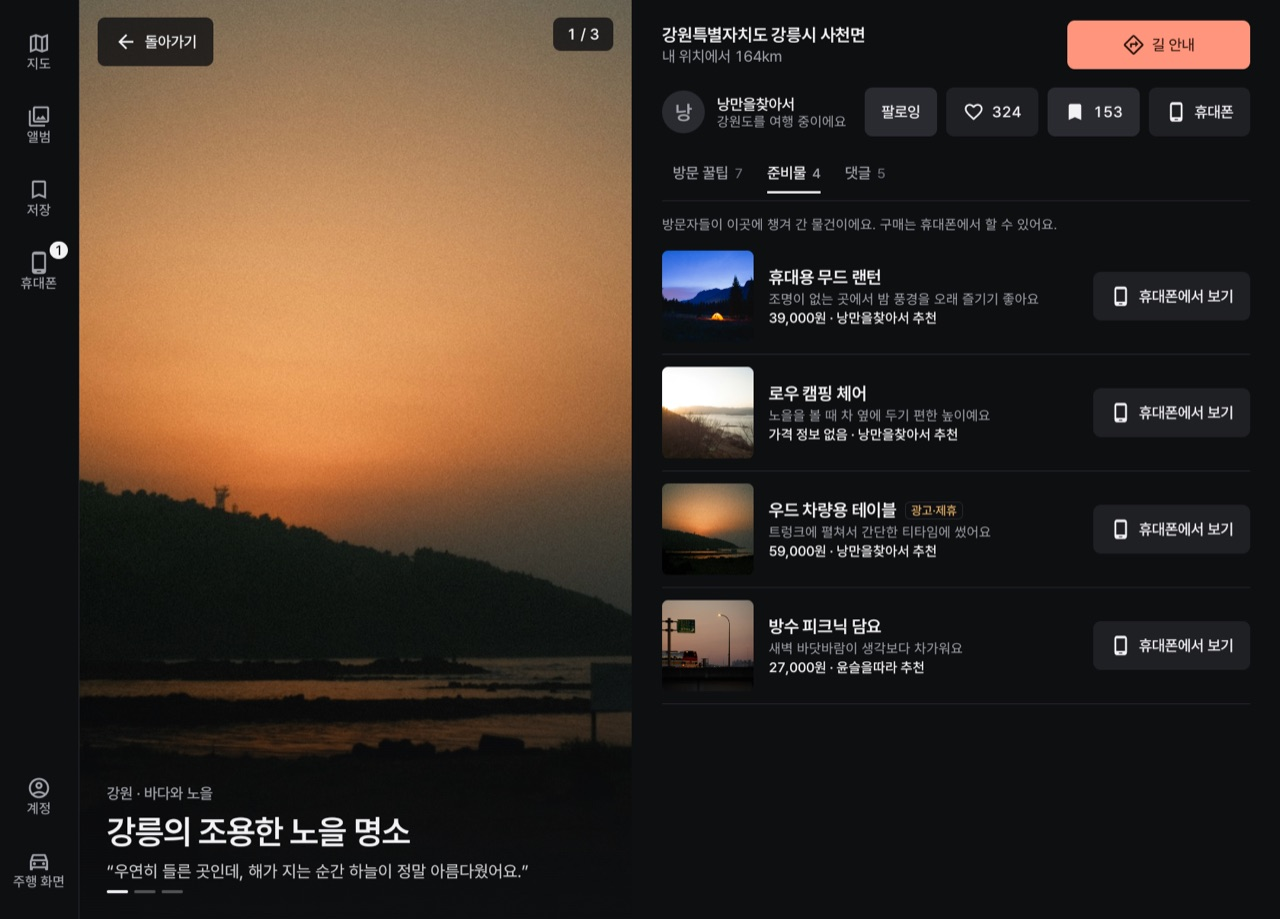
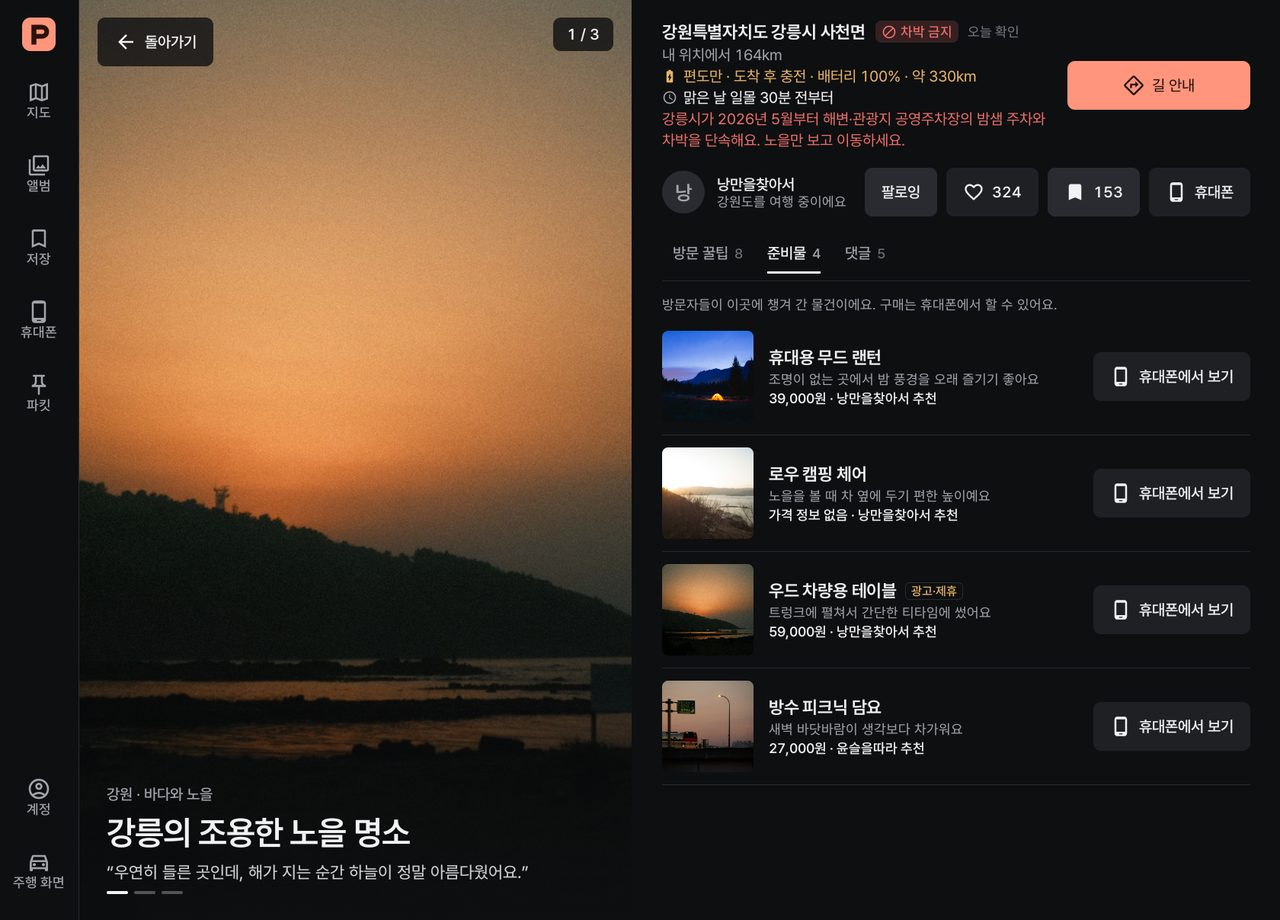
Refresh README screenshots for 파킷
All nineteen screenshots retaken on the Pleos and phone emulators with the
current build: 파킷 branding and icon, NAVER night map, facility and battery
filter chips, car-camping badges with freshness, sun times and departure
hints, arrival battery on the driving screen, the 다녀온 곳 album tab and
the car-camping report chips on the phone. Captions updated to match, and
the capture crop/scale reproduced on Windows for this pass.

diff --git a/README.md b/README.md
@@ -4,7 +4,7 @@ Pleos Connect 차량용 앱을 만들기 위한 팀 저장소입니다. 차박·
 
 ## 화면
 
-에뮬레이터에서 실제 앱을 실행해 찍은 화면입니다. 차량은 Pleos Connect Emulator 2.1.0(2560×1440), 휴대폰은 Pixel 7(Android 15)이고, 두 기기가 동기화 서버로 `윤슬을따라` 계정에 연결된 상태입니다. 장소와 사진은 샘플 데이터입니다.
+에뮬레이터에서 실제 앱을 실행해 찍은 화면입니다(2026-11-09 기준). 차량은 Pleos Connect Emulator 2.1.0(2560×1440), 휴대폰은 Pixel 계열 에뮬레이터이고, 두 기기가 동기화 서버로 `윤슬을따라` 계정에 연결된 상태입니다. 장소와 사진은 샘플 데이터이고, 지도는 NAVER 지도 야간 스타일입니다.
 
 ### 차량용 앱
 
@@ -14,7 +14,7 @@ Pleos 헤드유닛에서는 왼쪽 클러스터 옆 창에 앱이 열립니다. 
 
 <table>
   <tr>
-    <td width="50%"><img src="docs/images/car-map.jpg" alt="사진 마커 지도, 선택한 장소 미리보기 카드, 지도에 보이는 지역의 피드"></td>
+    <td width="50%"><img src="docs/images/car-map.jpg" alt="사진 마커 지도, 시설·배터리 필터 칩, 선택한 장소 미리보기 카드(차박 상태·배터리 판정·일몰 시각), 지도에 보이는 지역의 피드"></td>
     <td width="50%"><img src="docs/images/car-detail-tips.jpg" alt="장소 상세의 방문 꿀팁 탭. 확인 필요, 준비하세요 상태 카드"></td>
   </tr>
   <tr>
@@ -31,7 +31,7 @@ Pleos 헤드유닛에서는 왼쪽 클러스터 옆 창에 앱이 열립니다. 
   </tr>
   <tr>
     <td><img src="docs/images/car-from-phone.jpg" alt="휴대폰에서 보낸 장소 탭과 레일의 배지"></td>
-    <td><img src="docs/images/car-driving.jpg" alt="주행 중 간소화 화면. 목적지, 남은 거리와 시간, 도착 전 꿀팁 3개"></td>
+    <td><img src="docs/images/car-driving.jpg" alt="주행 중 간소화 화면. 목적지, 남은 거리와 시간, 도착 시 배터리, 일몰까지 여유, 차박 금지 안내, 도착 전 꿀팁 3개"></td>
   </tr>
   <tr>
     <td><b>휴대폰에서 보냄</b> · 휴대폰의 '차량으로 보내기'가 도착하면 레일에 배지</td>
